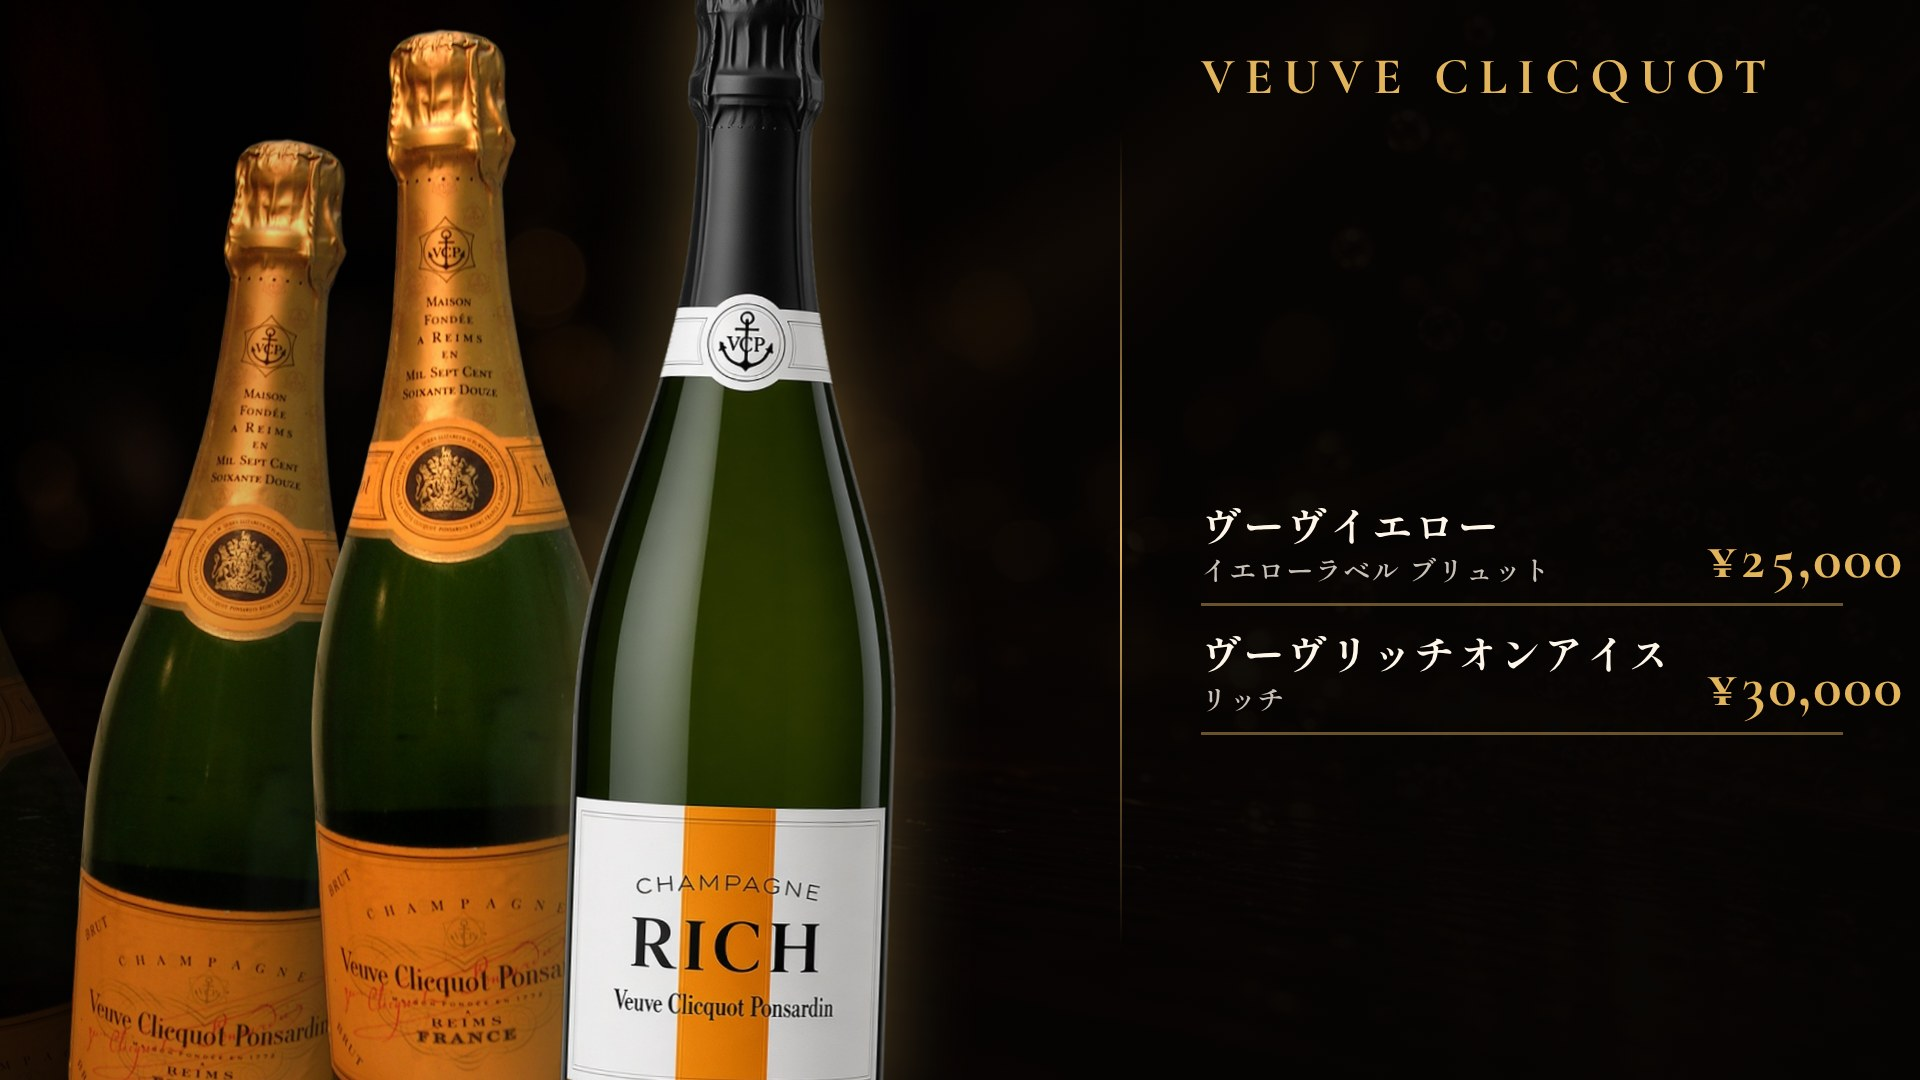
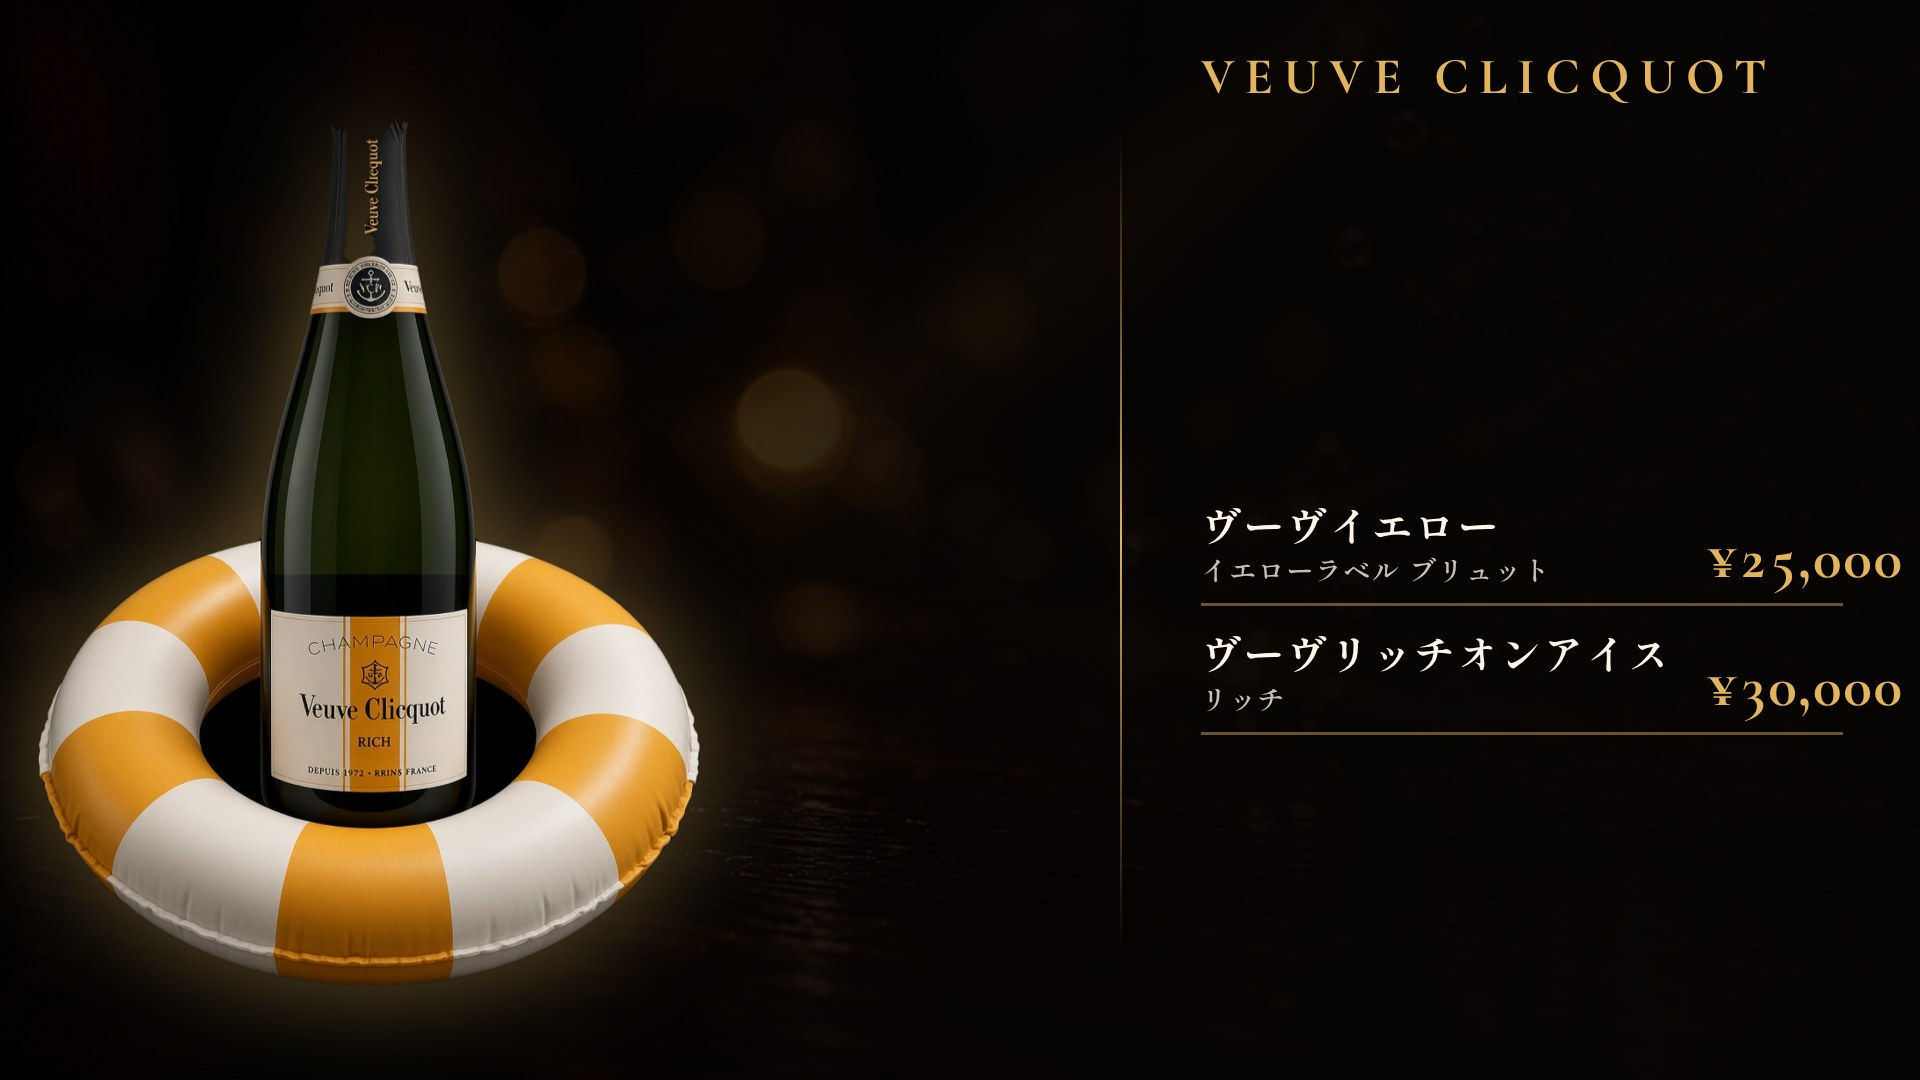
Retouch Veuve Rich with complete lifebuoy; drop dual Yellow bottles
Use a clean full-ring float retouch as the sole drama hero for Rich on
Ice, and keep the menu as Yellow + Rich with prices in one column.

diff --git a/designs/final-veuve-series.css b/designs/final-veuve-series.css
@@ -1,13 +1,9 @@
 .stage{position:relative;width:100%;height:100%}
 .bg{position:absolute;inset:0;width:100%;height:100%;object-fit:cover;filter:brightness(.32)}
 .shade{position:absolute;inset:0;z-index:1}
-.drama{position:absolute;left:0;top:0;bottom:0;width:78%;z-index:2;pointer-events:none;overflow:visible}
+.drama{position:absolute;left:0;top:0;bottom:0;width:62%;z-index:2;pointer-events:none;overflow:visible}
 .b{position:absolute;object-fit:contain;filter:drop-shadow(0 30px 60px rgba(0,0,0,.75));will-change:transform}
-.b1{z-index:1;animation:driftA 7.5s ease-in-out infinite}
-.b2{z-index:2;animation:driftB 8.5s ease-in-out infinite}
-.b3{z-index:3;animation:driftC 6.8s ease-in-out infinite}
-.b4{z-index:5;animation:driftD 7.2s ease-in-out infinite}
-.b5{z-index:4;animation:driftE 9s ease-in-out infinite}
+.b4{z-index:6;animation:driftD 7.2s ease-in-out infinite}
 
 .panel{position:absolute;right:0;top:0;bottom:0;width:min(56vw,800px);z-index:3;padding:0 4vw 6vh 4.2vw;display:flex;flex-direction:column}
 .panel .title-zone{flex:0 0 22%;display:flex;align-items:flex-start;padding-top:4.5vh;min-height:0}
@@ -20,16 +16,9 @@
 .panel::before{content:"";position:absolute;left:0;top:12%;bottom:12%;width:2px;background:linear-gradient(180deg,transparent,var(--gold),transparent)}
 .ghost{display:none}.floor{display:none}
 
-@keyframes driftA{0%,100%{transform:rotate(var(--r1,-12deg)) translate3d(0,0,0)}50%{transform:rotate(calc(var(--r1,-12deg) + 2deg)) translate3d(1.4%,-1.5%,0)}}
-@keyframes driftB{0%,100%{transform:rotate(var(--r2,5deg)) translate3d(0,0,0)}50%{transform:rotate(calc(var(--r2,5deg) - 1.5deg)) translate3d(-.9%,-2%,0)}}
-@keyframes driftC{0%,100%{transform:rotate(var(--r3,-3deg)) translate3d(0,0,0)}50%{transform:rotate(calc(var(--r3,-3deg) + 1.5deg)) translate3d(1%,-2.2%,0)}}
-@keyframes driftD{0%,100%{transform:rotate(var(--r4,2deg)) translate3d(0,0,0) scale(1)}50%{transform:rotate(calc(var(--r4,2deg) - 1deg)) translate3d(-.7%,-2.6%,0) scale(1.025)}}
-@keyframes driftE{0%,100%{transform:rotate(var(--r5,-7deg)) translate3d(0,0,0)}50%{transform:rotate(calc(var(--r5,-7deg) + 2deg)) translate3d(1.5%,-1.6%,0)}}
-@media (prefers-reduced-motion:reduce){.b1,.b2,.b3,.b4,.b5{animation:none!important}}
+@keyframes driftD{0%,100%{transform:rotate(var(--r4,0deg)) translate3d(0,0,0) scale(1)}50%{transform:rotate(calc(var(--r4,0deg) - .8deg)) translate3d(-.5%,-1.8%,0) scale(1.015)}}
+@media (prefers-reduced-motion:reduce){.b4{animation:none!important}}
 
-.shade{background:linear-gradient(100deg,rgba(6,4,3,.04) 0%,rgba(6,4,3,.3) 34%,rgba(6,4,3,.8) 58%,rgba(6,4,3,.96) 72%)}
-.b1{left:-10%;bottom:-20%;height:88%;opacity:.16;--r1:-12deg;transform:rotate(-12deg)}
-.b2{left:6%;bottom:-14%;height:102%;opacity:.88;--r2:5deg;transform:rotate(5deg);z-index:4}
-.b3{left:20%;bottom:-10%;height:108%;opacity:1;--r3:-2deg;transform:rotate(-2deg);z-index:5}
-.b4{left:38%;bottom:-8%;height:112%;opacity:1;--r4:2deg;transform:rotate(2deg);z-index:6;filter:drop-shadow(0 0 40px rgba(226,180,92,.35)) drop-shadow(0 30px 60px rgba(0,0,0,.75))}
-.b5{display:none}
+.shade{background:linear-gradient(100deg,rgba(6,4,3,.04) 0%,rgba(6,4,3,.28) 36%,rgba(6,4,3,.82) 58%,rgba(6,4,3,.97) 72%)}
+/* 浮き輪付きRichのみ — 円全体が画面内 */
+.b4{left:2%;bottom:2%;height:94%;width:58%;opacity:1;--r4:0deg;transform:rotate(0deg);filter:drop-shadow(0 0 55px rgba(226,180,92,.45)) drop-shadow(0 28px 55px rgba(0,0,0,.8))}

diff --git a/designs/final-veuve-series.html b/designs/final-veuve-series.html
@@ -12,9 +12,6 @@
 <div class="shade"></div>
 
 <div class="drama">
-<img class="b b1" src="../assets/veuve/cut/yellow.png" alt=""/>
-<img class="b b2" src="../assets/veuve/cut/yellow.png" alt=""/>
-<img class="b b3" src="../assets/veuve/cut/yellow.png" alt=""/>
 <img class="b b4" src="../assets/veuve/cut/rich.png" alt=""/>
 </div>
 <div class="panel">
